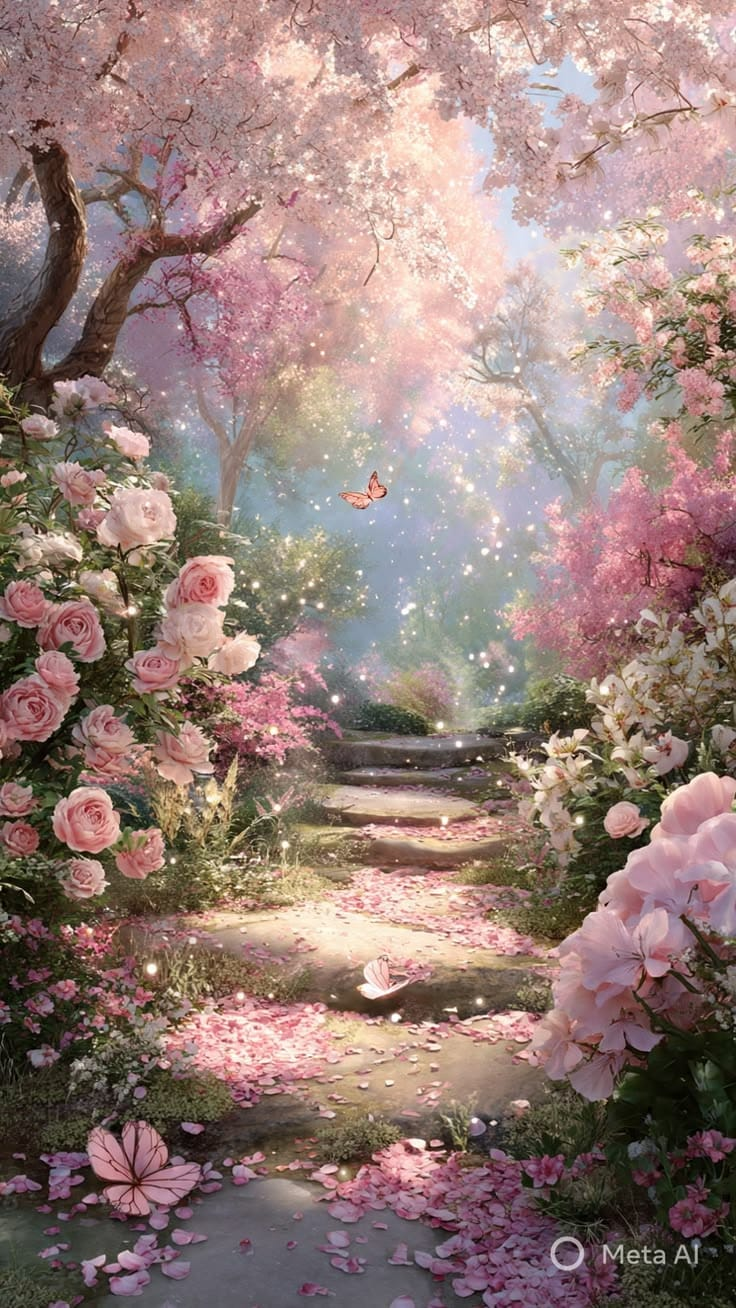
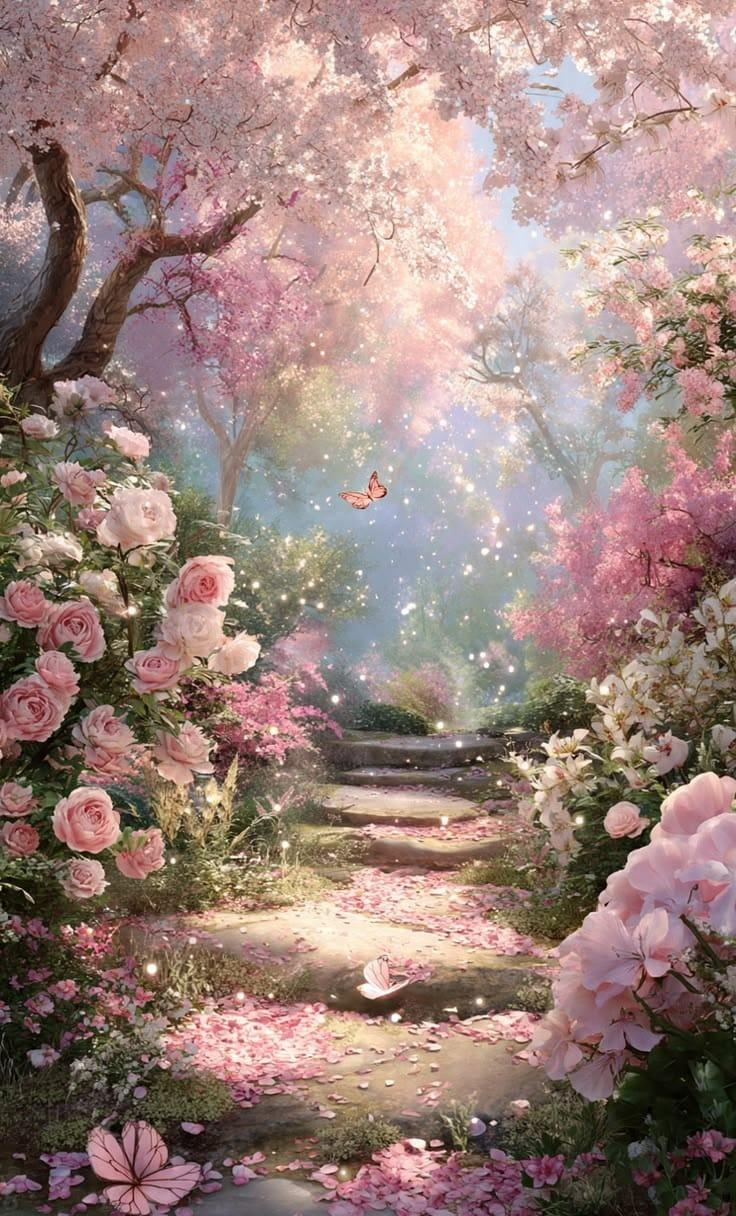
Changed envelope cover background

diff --git a/app/sections/EnvelopeCover.tsx b/app/sections/EnvelopeCover.tsx
@@ -39,7 +39,7 @@ export default function EnvelopeCover() {
   const MotionImage = motion.create(Image);
 
   return (
-    <div className="z-10 w-full h-screen bg-[url(/envelope-cover-bg.jpeg)] bg-cover bg-center lg:bg-position-[center_top_95rem] relative overflow-hidden">
+    <div className="z-10 w-full h-screen bg-[url(/envelope-cover-bg.jpeg)] bg-cover bg-center lg:bg-position-[center_top_88rem] relative overflow-hidden">
       <div className="z-11 absolute inset-0 w-full h-full bg-linear-to-b from-white/0 to-rose-50 backdrop-blur-[1px]"></div>
       <div
         className={`${!envShow && "hidden"} z-13 relative w-100 h-80 top-1/2 left-1/2 transform -translate-1/2`}